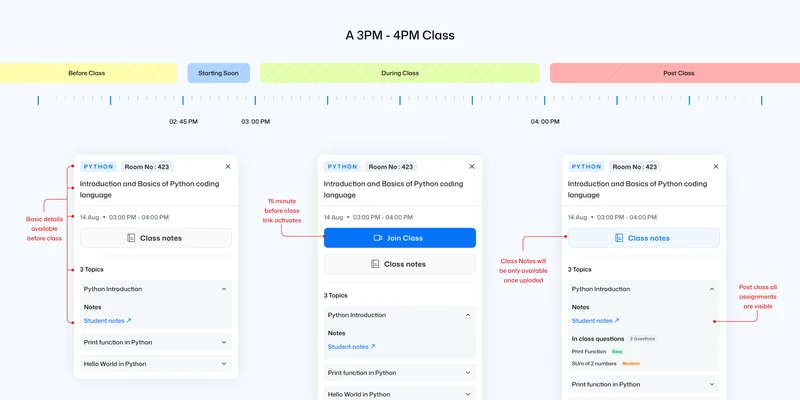
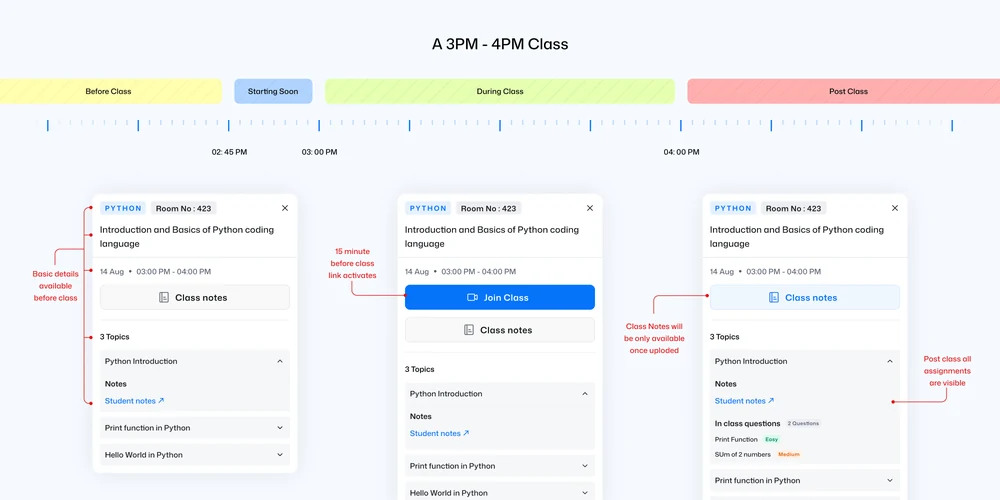
Widen case study media to 1000px on desktop
Claude-Session: https://claude.ai/code/session_01Co8ZUwBTuxAPVZZV6Xmy4L

diff --git a/src/pages/CaseStudy.jsx b/src/pages/CaseStudy.jsx
@@ -19,12 +19,12 @@ export default function CaseStudy() {
   const { caseStudy } = project;
 
   const hero = (
-    <Zoomable key="hero" media={{ ...project.cover, alt: project.coverAlt }}>
+    <Zoomable key="hero" className="case-study__hero" media={{ ...project.cover, alt: project.coverAlt }}>
       <img
         className="case-study__cover"
         src={project.cover.src}
         srcSet={`${project.cover.src} ${coverWidth}w, ${project.cover.src2x} ${coverWidth * 2}w`}
-        sizes="(max-width: 832px) calc(100vw - 32px), 800px"
+        sizes="(max-width: 832px) calc(100vw - 32px), (min-width: 1100px) 1000px, 800px"
         alt={project.coverAlt}
         width="800"
         height="400"
@@ -33,7 +33,7 @@ export default function CaseStudy() {
   );
 
   return (
-    <main className="container page case-study">
+    <main className={`container page case-study${caseStudy ? ' case-study--wide-media' : ''}`}>
       <Link className="case-study__back text-small text-muted" to="/#work">
         <img src={arrowLeft} alt="" width="20" height="20" />
         <span>All Work</span>

diff --git a/src/pages/CaseStudy.css b/src/pages/CaseStudy.css
@@ -61,3 +61,14 @@
   display: flex;
   flex-direction: column;
 }
+
+/* On wide screens, case study photos and videos break out of the 800px text column to 1000px. */
+@media (min-width: 1100px) {
+  .case-study--wide-media > .case-study__hero,
+  .case-study--wide-media > .cs-media,
+  .case-study--wide-media > .cs-media-switch {
+    width: 1000px;
+    max-width: none;
+    margin-inline: -100px;
+  }
+}
